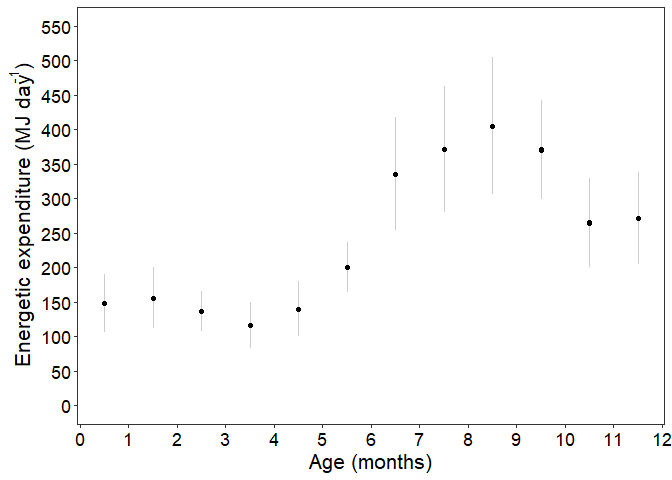
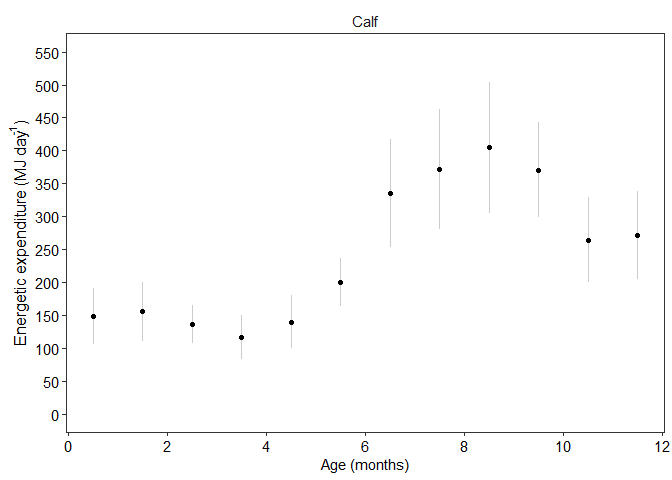
updating charts Figure 3 -  Es multipanel

diff --git a/results_for_paper/EnergeticsModeling_GreyWhales_Results_charts.md b/results_for_paper/EnergeticsModeling_GreyWhales_Results_charts.md
@@ -7,13 +7,10 @@ Selina Agbayani
 
 ### Production cost (P)
 
-#### Grey whale calves
-
-![](EnergeticsModeling_GreyWhales_Results_charts_files/figure-gfm/P_cost_phase1-1.png)<!-- -->
-
-#### Juveniles and Adults
-
 ![](EnergeticsModeling_GreyWhales_Results_charts_files/figure-gfm/P_cost_peryear-1.png)<!-- -->
+
+Figure 1. Production cost for calves (panel A) and juveniles and adults
+(panel B).
 
 ### Total Energetic Expenditure (*E<sub>s</sub>*)
 
@@ -33,6 +30,14 @@ energetic expenditures across two activity stages.
 Figure 5. Estimates of annual total energetic expenditure from activity
 (MJ) for juveniles and single adults, pregnant and lactating females.
 Error bars represent SD.
+
+``` r
+ggarrange(plot_Es_table_phase1_mthly_perday, 
+            plot_Es_table_alladults_preg_lact_yearly_perday, 
+            widths = c(2, 5)) 
+```
+
+![](EnergeticsModeling_GreyWhales_Results_charts_files/figure-gfm/Es%20all%20ages%20multipanel-1.png)<!-- -->
 
 ### Gross Energy Requirements
 
